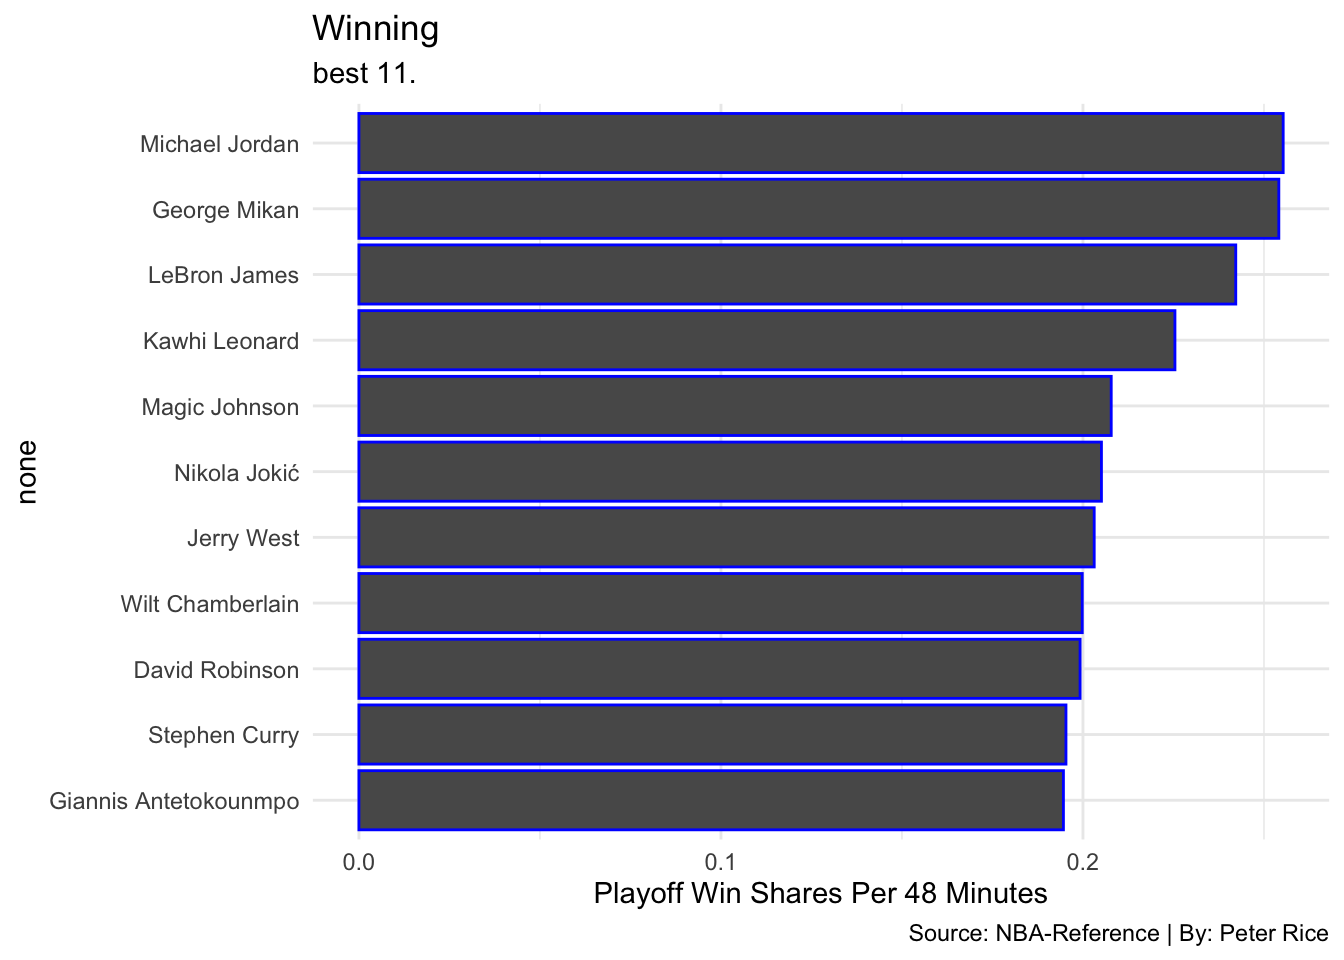
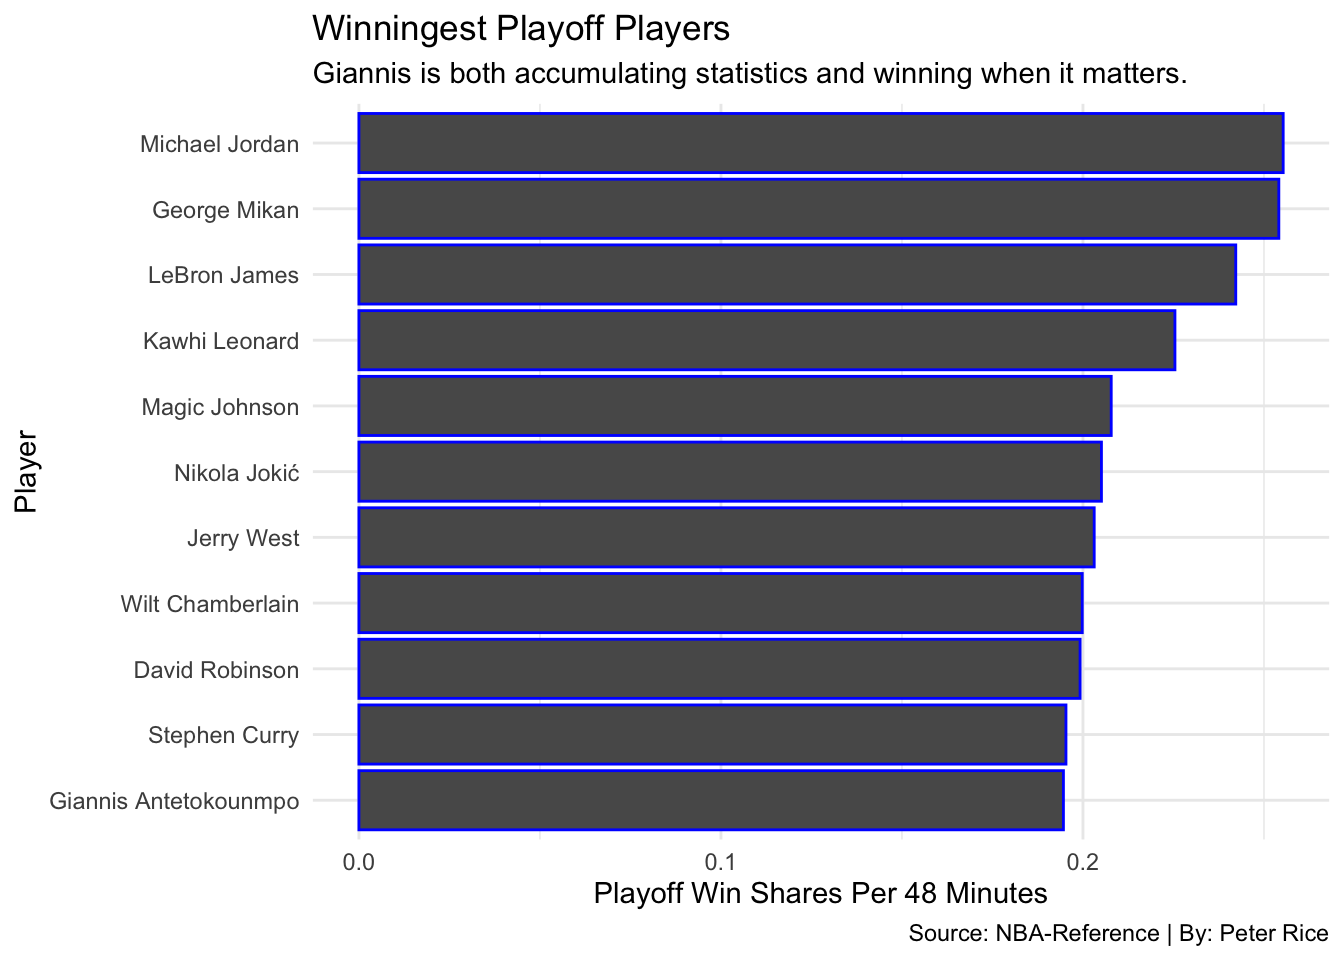
otn

Changed region(s): [[0.2188, 0.0, 0.875, 0.0938], [0.0, 0.4688, 0.0312, 0.5312]]

diff --git a/posts/giannis-could-be-the-goat/index.html b/posts/giannis-could-be-the-goat/index.html
@@ -257,7 +257,7 @@ code span.wa { color: #60a0b0; font-weight: bold; font-style: italic; } /* Warni
 <span id="cb1-44"><a href="#cb1-44" aria-hidden="true" tabindex="-1"></a>    <span class="at">x=</span><span class="st">"Season"</span>, </span>
 <span id="cb1-45"><a href="#cb1-45" aria-hidden="true" tabindex="-1"></a>    <span class="at">y=</span><span class="st">"Points Scored Per Year"</span>, </span>
 <span id="cb1-46"><a href="#cb1-46" aria-hidden="true" tabindex="-1"></a>    <span class="at">title=</span><span class="st">"New King in Town?"</span>, </span>
-<span id="cb1-47"><a href="#cb1-47" aria-hidden="true" tabindex="-1"></a>    <span class="at">subtitle=</span><span class="st">"Since winning his second MVP, The Greak Freak has dethroned lebron as the league's best player."</span>, </span>
+<span id="cb1-47"><a href="#cb1-47" aria-hidden="true" tabindex="-1"></a>    <span class="at">subtitle=</span><span class="st">"The Greak Freak has dethroned lebron as the league's best player."</span>, </span>
 <span id="cb1-48"><a href="#cb1-48" aria-hidden="true" tabindex="-1"></a>    <span class="at">caption=</span><span class="st">"Source: NBA-Reference | By: Peter Rice"</span></span>
 <span id="cb1-49"><a href="#cb1-49" aria-hidden="true" tabindex="-1"></a>    )</span></code><button title="Copy to Clipboard" class="code-copy-button"><i class="bi"></i></button></pre></div>
 </details>
@@ -275,10 +275,10 @@ code span.wa { color: #60a0b0; font-weight: bold; font-style: italic; } /* Warni
 <span id="cb2-4"><a href="#cb2-4" aria-hidden="true" tabindex="-1"></a>  <span class="fu">geom_bar</span>(<span class="at">data=</span>ws2, <span class="fu">aes</span>(<span class="at">x=</span><span class="fu">reorder</span>(Player, <span class="st">`</span><span class="at">WS/48</span><span class="st">`</span>), <span class="at">weight=</span><span class="st">`</span><span class="at">WS/48</span><span class="st">`</span>), <span class="at">color =</span> <span class="st">"blue"</span>) <span class="sc">+</span></span>
 <span id="cb2-5"><a href="#cb2-5" aria-hidden="true" tabindex="-1"></a>  <span class="fu">coord_flip</span>() <span class="sc">+</span></span>
 <span id="cb2-6"><a href="#cb2-6" aria-hidden="true" tabindex="-1"></a><span class="fu">theme_minimal</span>() <span class="sc">+</span> </span>
-<span id="cb2-7"><a href="#cb2-7" aria-hidden="true" tabindex="-1"></a>  <span class="fu">labs</span>( <span class="at">x=</span> <span class="st">"none"</span>,</span>
+<span id="cb2-7"><a href="#cb2-7" aria-hidden="true" tabindex="-1"></a>  <span class="fu">labs</span>( <span class="at">x=</span> <span class="st">"Player"</span>,</span>
 <span id="cb2-8"><a href="#cb2-8" aria-hidden="true" tabindex="-1"></a>    <span class="at">y=</span><span class="st">"Playoff Win Shares Per 48 Minutes"</span>, </span>
-<span id="cb2-9"><a href="#cb2-9" aria-hidden="true" tabindex="-1"></a>    <span class="at">title=</span><span class="st">"Winning"</span>, </span>
-<span id="cb2-10"><a href="#cb2-10" aria-hidden="true" tabindex="-1"></a>    <span class="at">subtitle=</span><span class="st">"best 11.  "</span>, </span>
+<span id="cb2-9"><a href="#cb2-9" aria-hidden="true" tabindex="-1"></a>    <span class="at">title=</span><span class="st">"Winningest Playoff Players"</span>, </span>
+<span id="cb2-10"><a href="#cb2-10" aria-hidden="true" tabindex="-1"></a>    <span class="at">subtitle=</span><span class="st">"Giannis is both accumulating statistics and winning when it matters."</span>, </span>
 <span id="cb2-11"><a href="#cb2-11" aria-hidden="true" tabindex="-1"></a>    <span class="at">caption=</span><span class="st">"Source: NBA-Reference | By: Peter Rice"</span></span>
 <span id="cb2-12"><a href="#cb2-12" aria-hidden="true" tabindex="-1"></a>    )</span></code><button title="Copy to Clipboard" class="code-copy-button"><i class="bi"></i></button></pre></div>
 </details>
@@ -286,7 +286,8 @@ code span.wa { color: #60a0b0; font-weight: bold; font-style: italic; } /* Warni
 <p><img src="index_files/figure-html/unnamed-chunk-2-1.png" class="img-fluid" width="672"></p>
 </div>
 </div>
-<p>conclusio</p>
+<p>next</p>
+<p>conc</p>
 
 
 

diff --git a/index.html b/index.html
@@ -164,7 +164,7 @@ ul.task-list li input[type="checkbox"] {
 
 <div class="quarto-listing quarto-listing-container-default" id="listing-listing">
 <div class="list quarto-listing-default">
-<div class="quarto-post image-right" data-index="0" data-categories="sports,data,basketball,nba" data-listing-date-sort="1669960800000" data-listing-file-modified-sort="1670216805952" data-listing-reading-time-sort="2.01">
+<div class="quarto-post image-right" data-index="0" data-categories="sports,data,basketball,nba" data-listing-date-sort="1669960800000" data-listing-file-modified-sort="1670217065772" data-listing-reading-time-sort="2.025">
 <div class="thumbnail">
 <p><a href="./posts/giannis-could-be-the-goat/index.html"> <img src="./posts/giannis-could-be-the-goat/image.png" class="thumnail-image"> </a></p>
 </div>
